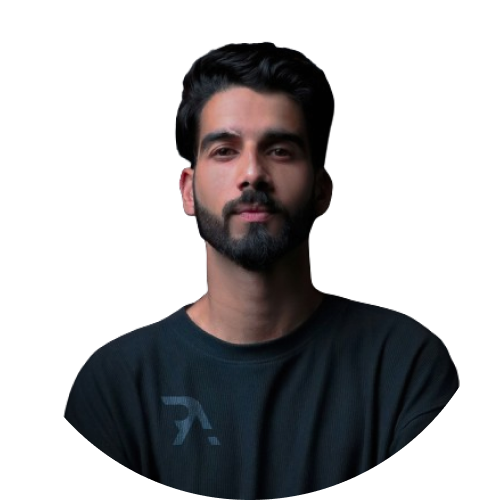
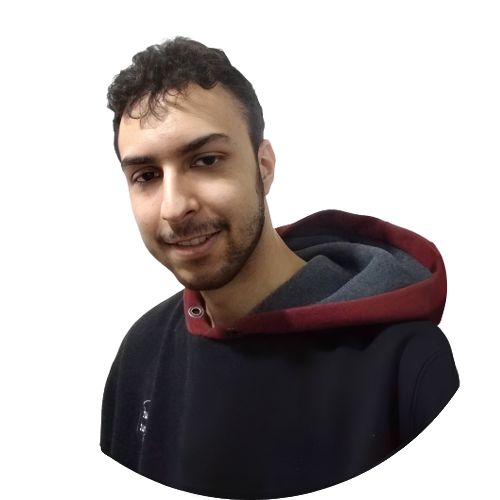
Portfolio Finalizado
Portfolio base finalizado;

diff --git a/app/work/page.jsx b/app/work/page.jsx
@@ -25,7 +25,7 @@ const projects = [
     category: "Unity",
     title: "Plataforma 3D",
     description:
-      "Jogo de aprendizado para plataforma Unity",
+      "Jogo de plataforma 3D criado para aprendizado sobre a plataforma Unity",
     stack: [{ name: "C#" }, { name: "Game Design" }, { name: "Efeitos Visuais" }],
     image: "/assets/work/unity1.png",
     live: "",
@@ -36,7 +36,7 @@ const projects = [
     category: "Unity",
     title: "Plataforma 3D",
     description:
-      "Jogo de aprendizado para plataforma Unity",
+      "Jogo de plataforma 3D criado para aprendizado sobre a plataforma Unity",
     stack: [{ name: "State Machine" }, { name: "Animações" }, { name: "Entidades" }],
     image: "/assets/work/unity2.png",
     live: "",
@@ -107,7 +107,7 @@ const Work = () => {
                   </TooltipProvider>
                 </Link> */}
                 {/* github project button */}
-                <Link href={project.github}>
+                <Link href={project.github} target="_blank" rel="noopener noreferrer">
                   <TooltipProvider delayDuration={100}>
                     <Tooltip>
                       <TooltipTrigger className="w-[70px] h-[70px] rounded-full bg-white/5 flex justify-center items-center group">

diff --git a/components/MobileNav.jsx b/components/MobileNav.jsx
@@ -4,22 +4,24 @@ import { Sheet, SheetContent, SheetTrigger } from "@/components/ui/sheet";
 import { usePathname } from "next/navigation";
 import Link from "next/link";
 import { CiMenuFries } from "react-icons/ci";
+import { Button } from "./ui/button";
+
 
 const links = [
   {
-    name: "home",
+    name: "Inicio",
     path: "#",
   },
   {
-    name: "services",
+    name: "Funções",
     path: "#services",
   },
   {
-    name: "resume",
+    name: "Sobre",
     path: "#resume",
   },
   {
-    name: "work",
+    name: "Trabalhos",
     path: "#work",
   },
 ];
@@ -57,6 +59,13 @@ const MobileNav = () => {
               </Link>
             );
           })}
+
+        <div>
+          <Link href="https://wa.me/51993337557" target="_blank" rel="noopener noreferrer">
+            <Button>Contato</Button>
+          </Link>
+        </div>
+
         </nav>
       </SheetContent>
     </Sheet>

diff --git a/app/services/page.jsx b/app/services/page.jsx
@@ -70,7 +70,7 @@ const Services = () => {
                           <FaCheck className="text-primary text-3xl" />
                         </TooltipTrigger>
                         <TooltipContent>
-                          <p>Emprego atual</p>
+                          <p>Função atual</p>
                         </TooltipContent>
                       </Tooltip>
                     </TooltipProvider>
